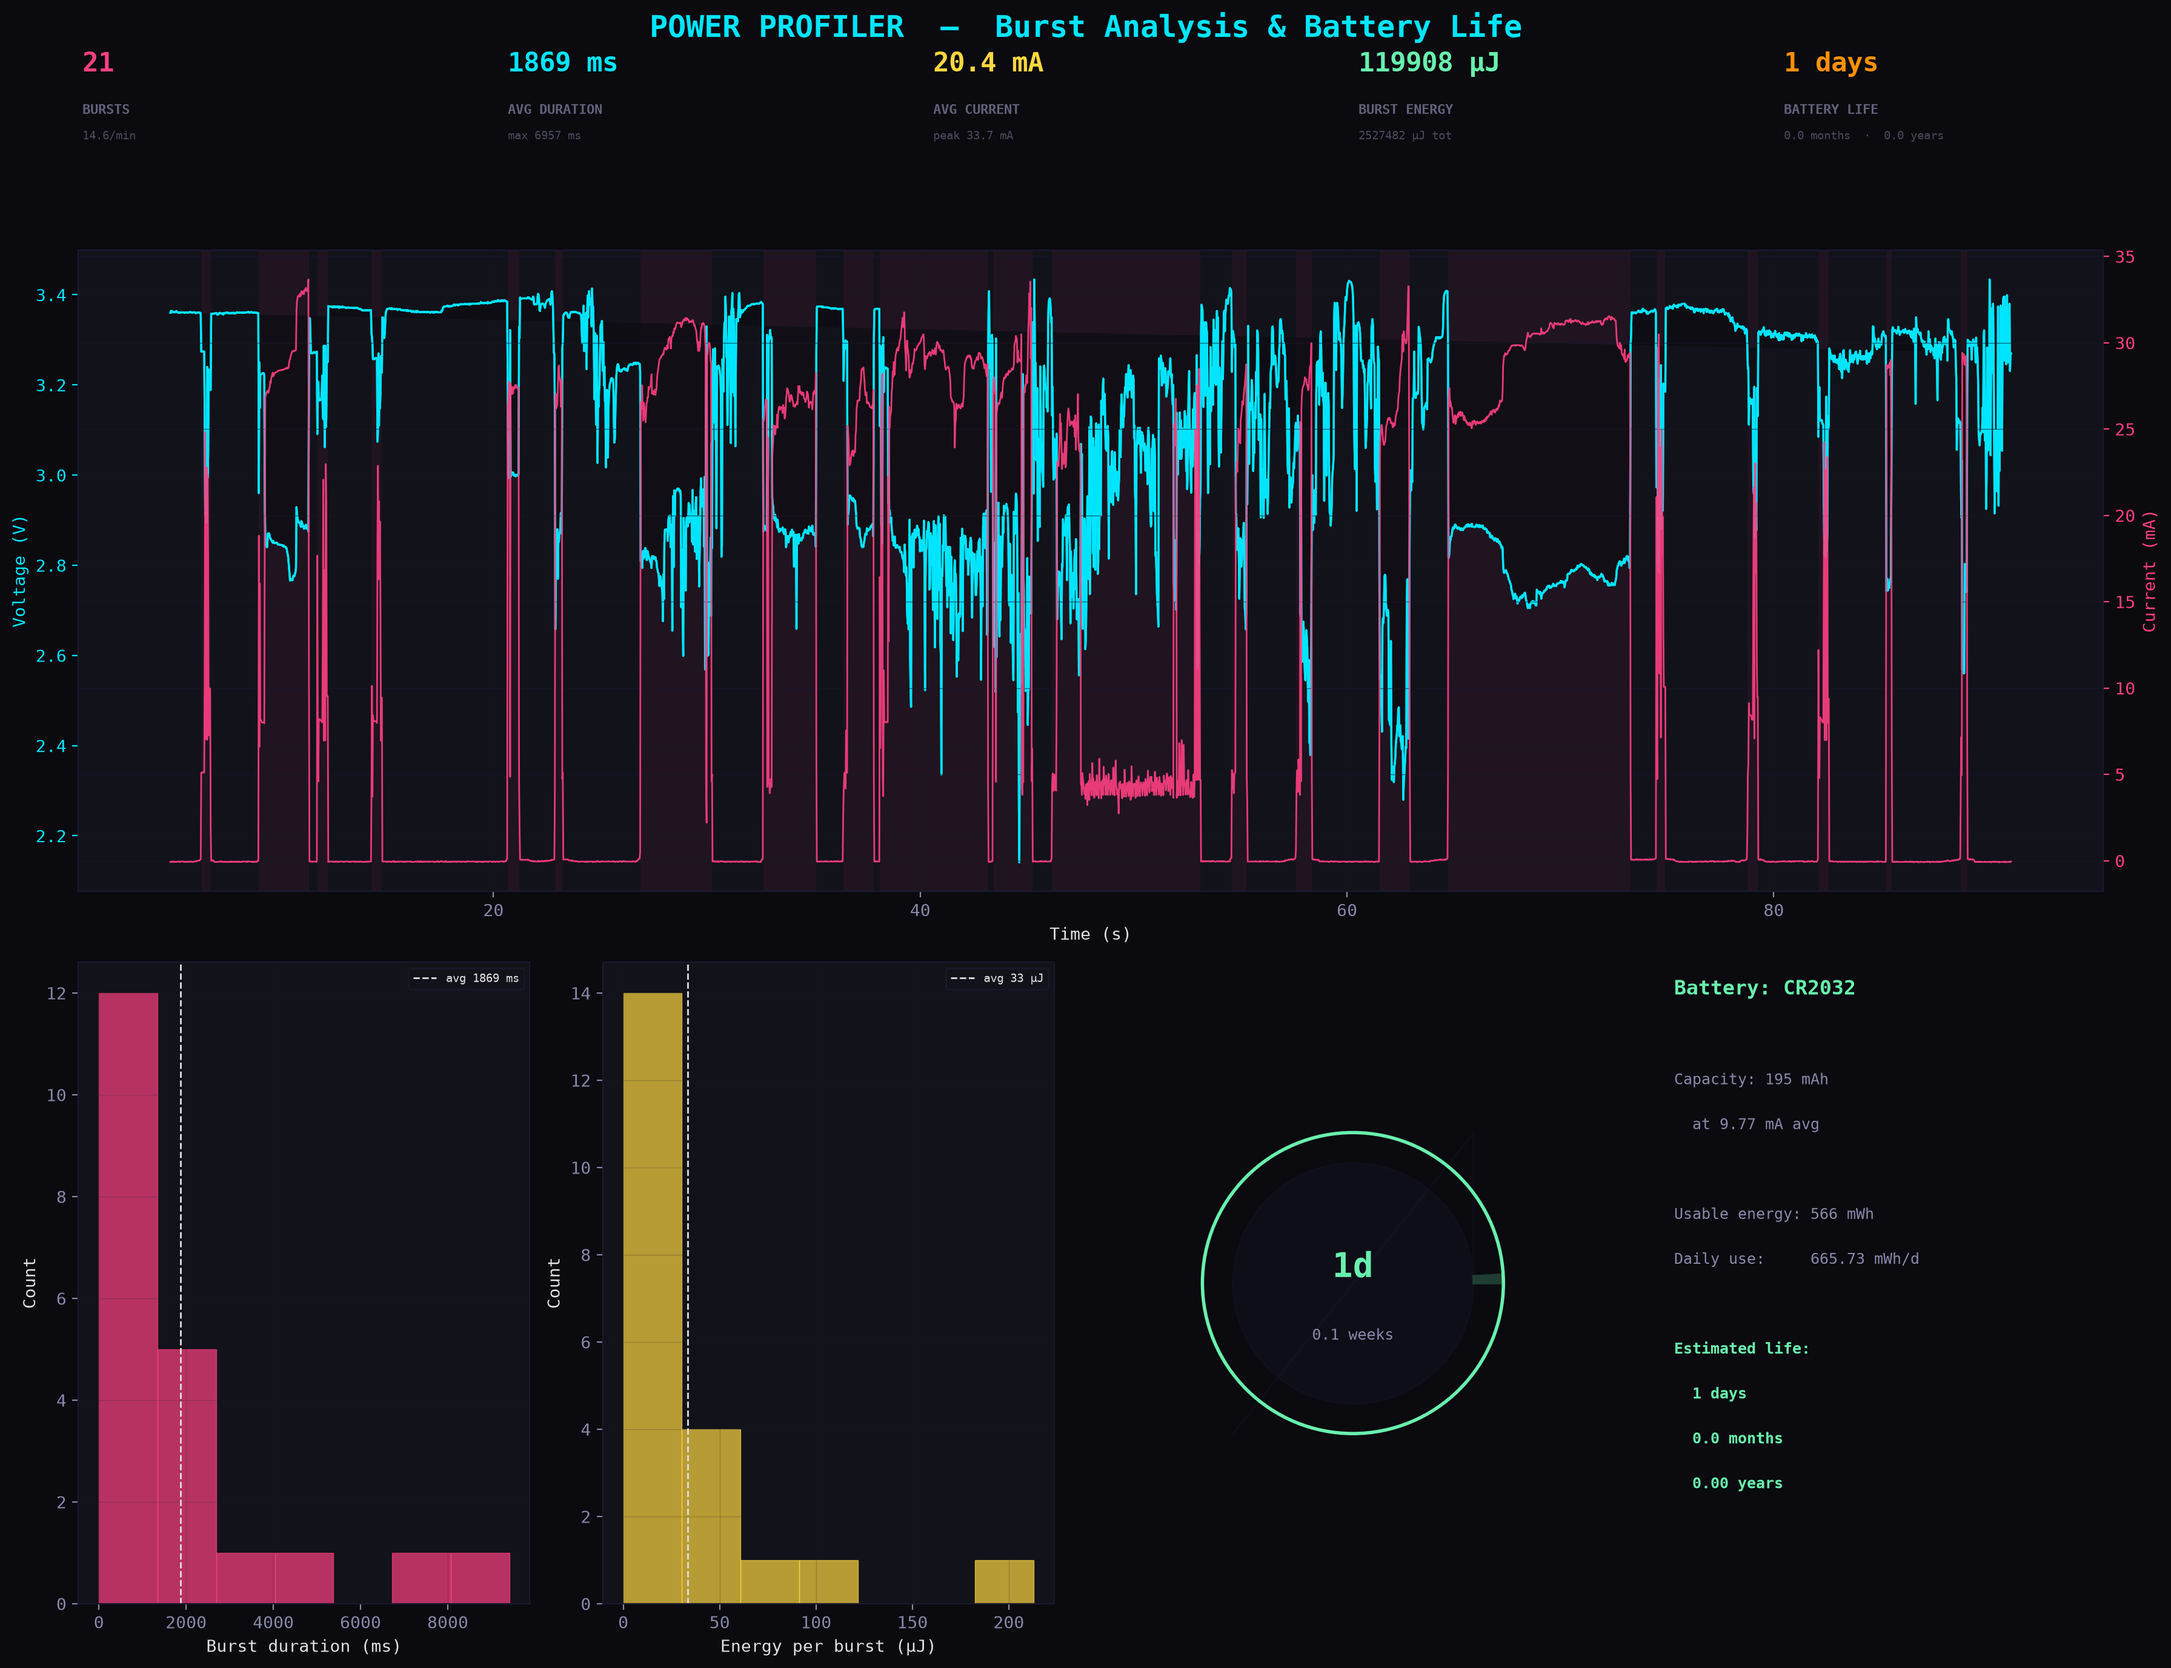
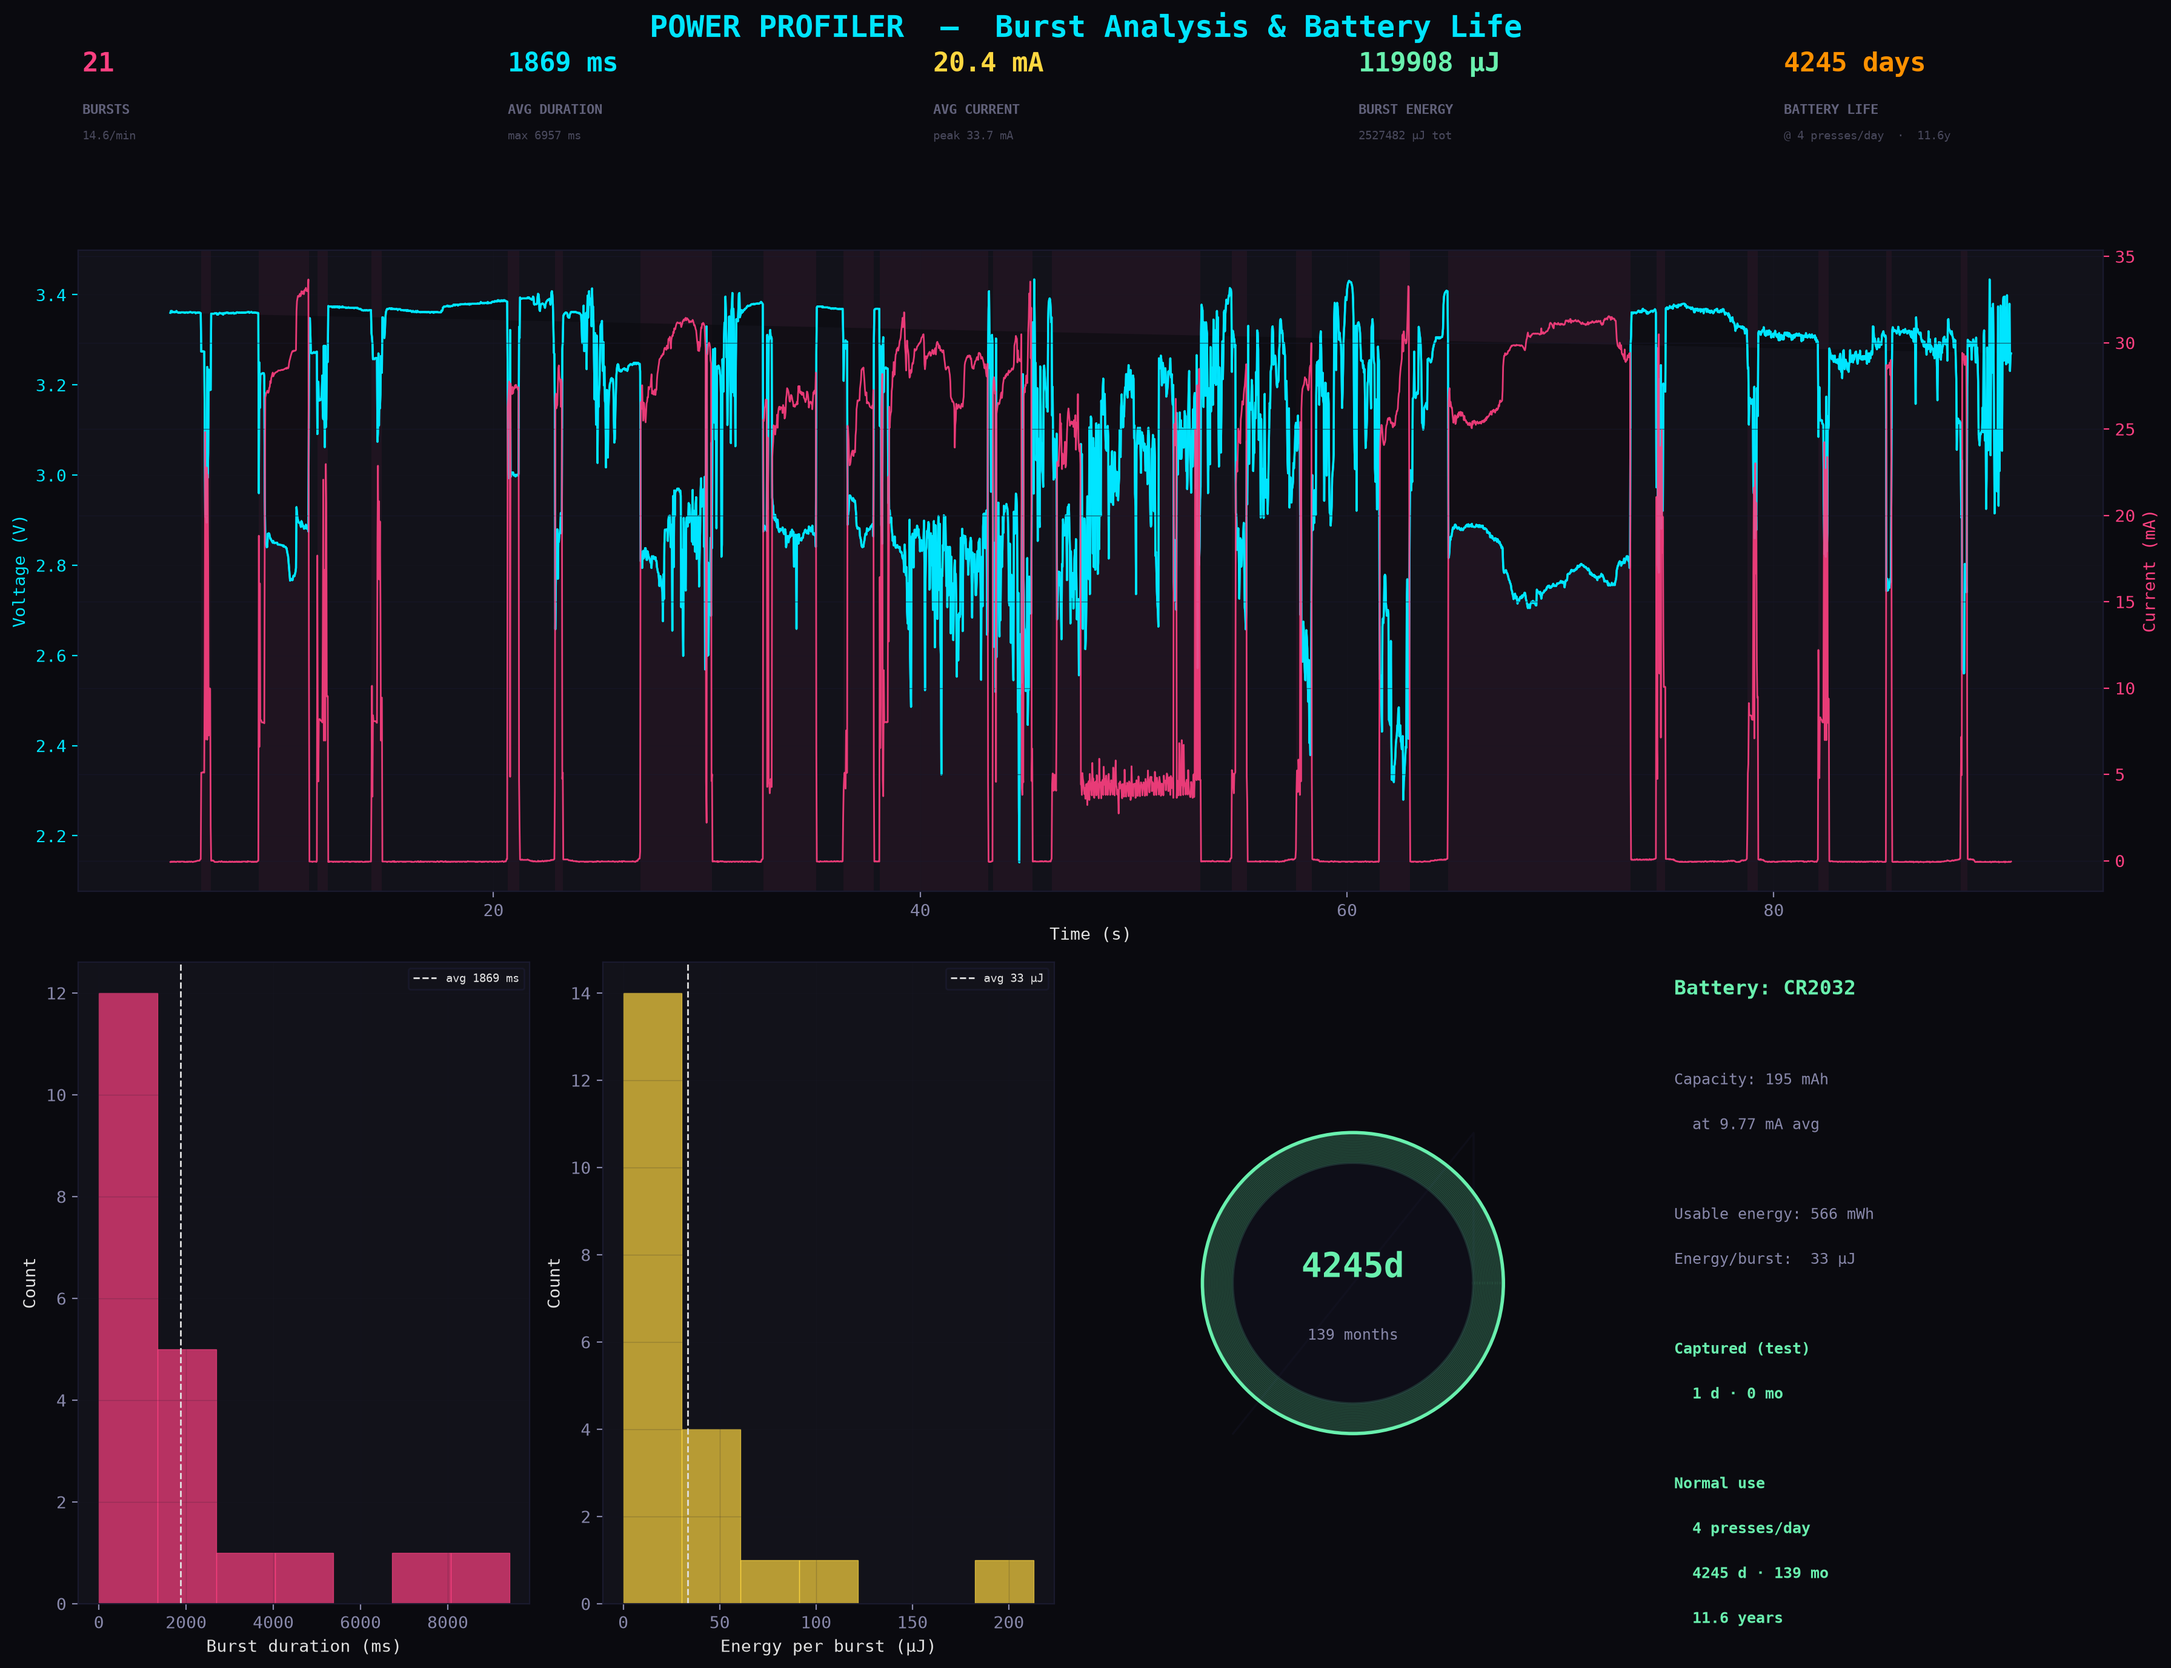
Battery life: estimate for normal use (4 presses/day) instead of captured duty cycle
- estimate_battery() now returns both captured and normal-use estimates
- Normal: daily_energy = avg_burst_energy × 4 presses
- Captured: daily_energy scaled from test window duty cycle
- Terminal shows both, chart gauge shows normal-use estimate

Changed region(s): [[0.5576, 0.656, 0.7125, 0.8747], [0.8364, 0.0312, 0.8984, 0.0625], [0.7745, 0.8747, 0.8055, 0.9059]]

diff --git a/scripts/plot.py b/scripts/plot.py
@@ -191,18 +191,27 @@ def burst_stats(bursts, t_total_s, idle_ma):
 }
 
 
-def estimate_battery(stats, total_seconds):
-    """Return battery life estimates for a CR2032."""
+def estimate_battery(stats, total_seconds, presses_per_day=4):
+    """Return battery life for a CR2032 — both captured pattern and normal use."""
     avg_ma = stats["avg_power_mw"] / 3.0
     usable_mah = cr2032_usable_mah(avg_ma)
-    total_mwh = usable_mah * 2.9   # avg voltage under load
-    # daily energy from capture window
-    daily_mwh = stats["total_energy_mwh"] * (86400.0 / total_seconds)
-    days = total_mwh / daily_mwh if daily_mwh > 0 else float("inf")
+    total_mwh = usable_mah * 2.9
+
+    daily_mwh_captured = stats["total_energy_mwh"] * (86400.0 / total_seconds)
+    days_captured = total_mwh / daily_mwh_captured if daily_mwh_captured > 0 else float("inf")
+
+    energy_per_burst_mwh = stats["energy_uj_per"] / 3_600_000
+    daily_mwh_normal = energy_per_burst_mwh * presses_per_day
+    days_normal = total_mwh / daily_mwh_normal if daily_mwh_normal > 0 else float("inf")
+
     return {
         "avg_ma": avg_ma, "usable_mah": usable_mah, "total_mwh": total_mwh,
-        "daily_mwh": daily_mwh, "days": days,
-        "months": days / 30.44, "years": days / 365.25,
+        "energy_per_burst_mwh": energy_per_burst_mwh,
+        "captured": {"daily_mwh": daily_mwh_captured, "days": days_captured,
+                     "months": days_captured / 30.44, "years": days_captured / 365.25},
+        "normal":   {"presses_day": presses_per_day, "daily_mwh": daily_mwh_normal,
+                     "days": days_normal, "months": days_normal / 30.44,
+                     "years": days_normal / 365.25},
     }
 
 
@@ -294,8 +303,8 @@ def plot_analysis(t, v, ma, mw, dt, bursts, stats, batt, out_path):
                        f"peak {stats['c_max_peak']:.1f} mA",         YELLOW),
         ("BURST ENERGY",  f"{stats['energy_uj_per']:.0f} µJ",
                         f"{stats['energy_uj_total']:.0f} µJ tot", GREEN),
-        ("BATTERY LIFE",  f"{batt['days']:.0f} days",
-                       f"{batt['months']:.1f} months  ·  {batt['years']:.1f} years", ORANGE),
+        ("BATTERY LIFE",  f"{batt['normal']['days']:.0f} days",
+                        f"@ {batt['normal']['presses_day']:.0f} presses/day  ·  {batt['normal']['years']:.1f}y", ORANGE),
     ]
     for i, (label, val, sub, color) in enumerate(cards):
         x = 0.04 + i * 0.195
@@ -356,8 +365,7 @@ def plot_analysis(t, v, ma, mw, dt, bursts, stats, batt, out_path):
     ax_bat.set_aspect("equal")
     ax_bat.axis("off")
 
-    # circular gauge
-    days = batt["days"]
+    days = batt["normal"]["days"]
     if days > 365:
         pct = min(1.0, days / 730)
         label = f"{days:.0f}d"
@@ -395,12 +403,15 @@ def plot_analysis(t, v, ma, mw, dt, bursts, stats, batt, out_path):
         f"  at {batt['avg_ma']:.2f} mA avg",
         f"",
         f"Usable energy: {batt['total_mwh']:.0f} mWh",
-        f"Daily use:     {stats['total_energy_mwh']/(t[-1]/86400.0):.2f} mWh/d",
+        f"Energy/burst:  {batt['energy_per_burst_mwh']*1000:.0f} µJ",
         f"",
-        f"Estimated life:",
-        f"  {batt['days']:.0f} days",
-        f"  {batt['months']:.1f} months",
-        f"  {batt['years']:.2f} years",
+        f"Captured (test)",
+        f"  {batt['captured']['days']:.0f} d · {batt['captured']['months']:.0f} mo",
+        f"",
+        f"Normal use",
+        f"  {batt['normal']['presses_day']:.0f} presses/day",
+        f"  {batt['normal']['days']:.0f} d · {batt['normal']['months']:.0f} mo",
+        f"  {batt['normal']['years']:.1f} years",
     ]
     for j, line in enumerate(info_lines):
         color = GREEN if j == 0 or j >= 8 else GREY
@@ -456,8 +467,15 @@ def main():
             print(f"  Duty cycle:       {stats['duty_pct']:>6.1f} %")
             print(f"")
             print(f"  🔋 BATTERY LIFE  (CR2032, {batt['usable_mah']:.0f} mAh usable)")
+            print(f"  {'─' * 50}")
+            print(f"  Average burst:    {stats['energy_uj_per']:.0f} µJ")
             print(f"  Average current:  {batt['avg_ma']:.2f} mA")
-            print(f"  Estimated life:   {batt['days']:.0f} days  ({batt['months']:.1f} months, {batt['years']:.2f} years)")
+            print(f"")
+            print(f"  Captured pattern  ({stats['duty_pct']:.1f}% duty, {stats['bursts_per_min']:.0f}/min):")
+            print(f"    → {batt['captured']['days']:.0f}d  ({batt['captured']['months']:.1f} months)")
+            print(f"")
+            print(f"  Normal use  ({batt['normal']['presses_day']:.0f} presses/day):")
+            print(f"    → {batt['normal']['days']:.0f} days  ({batt['normal']['months']:.1f} months, {batt['normal']['years']:.2f} years)")
 
         plot_analysis(t, v, ma, mw, dt, bursts, stats, batt,
                       f"{args.output}_analysis.png")
